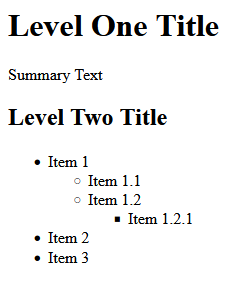
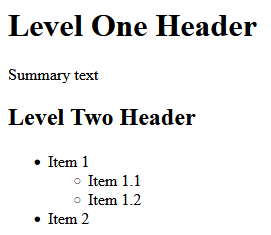
More edits for first blog article; add font section to second article

diff --git a/src/blog/personal-website-part-1.md b/src/blog/personal-website-part-1.md
@@ -64,14 +64,15 @@ I already have experience using GitLab for Agile-style project management, but
 I'd rather not host a server or pay for a project of this size.
 
 GitHub is similar enough to GitLab, and most of my personal code is there already. Their free repos and
-issue tracking are more than enough to track the code changes and other work. I
+issue tracking are more than sufficient for the job. I
 don't mind making the code public (that's kind of the point of a dev portfolio),
 and in this particular case I don't really care if GitHub uses my code to train
 Copilot. For more sensitive code bases, I might instead use a self-hosted GitLab
 server or a paid option.
 
 For any coding project you plan to work on more than once, I recommend using
-some kind of Git workflow to track and apply changes. In theory you could just do
+some kind of [Git workflow](https://www.atlassian.com/git/tutorials/comparing-workflows)
+to help with managing your changes. In theory you could just do
 everything on a single branch, but having a separate issue for each change and
 having a branch for each issue makes it much easier to track progress over time.
 Having a searchable and taggable list of issues also makes prioritization easier
@@ -81,7 +82,7 @@ when planning what to work on next.
 
 Since I'm already using GitHub, I might as well use their hosting service called [GitHub Pages](https://docs.github.com/en/pages). It's free, it doesn't have ads, and it supports using a custom domain.
 
-The earlier version of the site used an AWS S3 bucket. That worked fine and was fairly
+The previous version of the site used an AWS S3 bucket. That worked fine and was fairly
 inexpensive, but if I can host the site for free, that's even better. Especially
 if I (hopefully) end up getting more traffic later on.
 
@@ -118,7 +119,7 @@ This creates `_config.ts` for Lume and `deno.json` for Deno.
 
 Next, I'll install the optional
 [Lume CLI](https://lume.land/docs/overview/command-line/) so that Lume commands
-are a bit shorter to type. This will let us run `lume` instead of `deno task lume`:
+are a bit shorter to type. This way we can just run `lume` instead of `deno task lume`:
 
 ```shell
 deno install --allow-run --allow-env --allow-read --name lume --force --reload --global https://deno.land/x/lume_cli/mod.ts
@@ -141,13 +142,13 @@ There are three things we care about for now:
 
 - Adding a `src` directory so that Lume only looks for source files there.
   We don't want to include the outer README.md or other top-level files
-  in the build, since those have other purposes within the repo.
+  in the build, since those have other purposes and shouldn't show up in the final site.
 - Having the server open a browser by default when we run `lume -s`.
 - Disabling the
   [debug bar](https://lume.land/docs/configuration/config-file/#debugbar) from
   the site.
 
-This gives us the following:
+To do this, we use the following for `_config.ts`:
 
 ```typescript
 import lume from "lume/mod.ts";
@@ -165,6 +166,8 @@ export default site;
 
 The other defaults are fine for now.
 
+If the `.ts` extension makes you nervous, don't worry. [TypeScript](https://www.typescriptlang.org/) is just a superset of JavaScript, and we don't need any TypeScript-specific features here.
+
 ## Creating the Project Structure
 
 ### Adding a Page
@@ -172,11 +175,11 @@ The other defaults are fine for now.
 Now that Lume is configured, we can start adding content and defining a basic
 folder structure.
 
-First, we need to create a `src` folder where everything will live.
+First, we need to create the `src` folder where everything will live.
 
 Within it, Lume will automatically discover `.md` files and generate HTML using
 them. To start, let's create a simple `src/index.md` file, which will be used to generate
-the main `index.html` (the landing page) for the site:
+the main `index.html` file (the landing page) for the site:
 
 ```md
 # Scott Fredericks
@@ -203,43 +206,35 @@ browser:
 
 If you're not familiar with [Markdown](https://www.markdownguide.org/), it's
 just a simple markup language that's well-liked by developers. It's easy to edit
-from a text editor, and it's easy to reason about how the rendered version will look
-based on the text version. For example, this Markdown:
+from a text editor, and it's easy to reason about how the rendered version (what you see in the browser)
+will look based on the text version. For example, this Markdown:
 
 ```md
 # Level One Header
 
-Summary Text
+Summary text
 
 ## Level Two Header
 
 - Item 1
   - Item 1.1
   - Item 1.2
-    - Item 1.2.1
 - Item 2
-- Item 3
 ```
 
 produces this HTML:
 
 ```html
 <h1>Level One Header</h1>
-<p>Summary Text</p>
+<p>Summary text</p>
 <h2>Level Two Header</h2>
 <ul>
-  <li>
-    Item 1 <ul>
+  <li> Item 1 <ul>
       <li>Item 1.1</li>
-      <li>
-        Item 1.2 <ul>
-          <li>Item 1.2.1</li>
-        </ul>
-      </li>
+      <li>Item 1.2</li>
     </ul>
   </li>
   <li>Item 2</li>
-  <li>Item 3</li>
 </ul>
 ```
 
@@ -249,7 +244,7 @@ and looks like this in the browser:
 
 Great, our offline website works! However, it's pretty ugly. We should add some CSS to make it less ugly.
 
-Before we can do that, we need to understand how Lume handles layouts,
+Before we can do that though, we need to understand how Lume handles layouts,
 templates, and other resources. This is because in Lume, CSS files are handled like any other resource.
 
 ### Applying a Layout
@@ -275,7 +270,7 @@ and `birthYear`:
 <p>Hello, John. Your age is 21.</p>
 ```
 
-Here, anything within the double curly braces `{{` and `}}` is treated as
+Here, anything within the double curly braces is treated as
 JavaScript code and converted to a string literal, which gets output as raw HTML. Note that the template doesn't "know" anything about the output format, so you can use expressions to generate HTML tags, comments, or any other kind of HTML code. You just need to be mindful about how you use escape characters between formats.
 
 This makes it easy to re-use parts of a file that stay the same (like the
@@ -311,7 +306,7 @@ will be `.html`.
 
 Within our template, we use the variables `title` and `content`. `title` is just
 a regular variable that we will define within the `index.md` file. `content` is
-a built-in variable that stores the rendered string value obtained by converting the source file
+a built-in variable that contains the rendered string value obtained by converting the source file
 (Markdown) to the template file type (HTML).
 
 Next, to have our `index.md` file use this layout, we can specify the built-in
@@ -336,10 +331,9 @@ title defined at the top of `index.md`:
 ### Default Data
 
 Lume also has a way to define directory-level default variable values, so that
-we don't need to include the `layout` line for every file. This way, you don't
-risk forgetting to update the `layout` line everywhere if you rename the layout
-file. We can do this by creating a file named `_data.yml` in the directory that
-we want to apply the defaults in. Let's create `src/_data.yml`:
+we don't need to include the `layout` line for every file. We can do this by
+creating a file named `_data.yml` in the directory that
+we want to apply the defaults to. Let's create `src/_data.yml`:
 
 ```yml
 layout: main.html.vto
@@ -409,7 +403,7 @@ Note that when we apply styling, we want to target the HTML elements in the
 final output (in the `_site` folder), rather than the contents of the source
 Markdown files. Our CSS code only "knows about" the rendered HTML, not Markdown or any other Lume-specific features.
 
-So, for example, to target all level 1 headers in CSS, you would use `h1`, not `#`:
+So, for example, to target all level 1 headers in CSS, you would use `h1`, not `#`. So your CSS would look like this:
 
 ```css
 h1 {
@@ -417,7 +411,7 @@ h1 {
 }
 ```
 
-and not something like:
+and not this:
 
 ```css
 # {
@@ -426,7 +420,8 @@ and not something like:
 ```
 
 If you get confused, just remember that the final website consists of everything that gets output to the `_site`
-folder, and nothing else.
+folder, and nothing else. You can inspect the contents of these files to see whether things are working the way
+you expect them to.
 
 #### Adding JavaScript
 
@@ -464,6 +459,8 @@ Then, we can add images within `md` files using the following syntax:
 ```
 
 This will insert an `<img>` tag into the output HTML using a relative URL.
+You can also use an absolute URL if you're referencing an external image from
+another site.
 
 Here, we expect an image to exist at `src/img/filename.png`. Note the `/` at the
 beginning of the file path, which is necessary to reference the website root
@@ -498,10 +495,10 @@ url: /blog/
 ```
 
 This will be rendered to `<domain name>/blog/index.html`, where `<domain name>` is whatever our public site URL is. By adding `url: /blog/`, we
-can properly utilize pretty URLs so that the resulting URL is just
+can properly utilize pretty URLs so that the user-facing URL is just
 `<domain name>/blog/`.
 
-To designate files as blog articles, we'll add a `blog_article` tag to every article
+To designate which files are blog articles, we'll add a `blog_article` tag to every article
 `.md` file that we want to appear in the list. We'll also add a `date` variable
 that we can list at the top of the article and use for sorting. Here's the top
 of an article `.md` file:
@@ -592,7 +589,7 @@ url: /blog/
 
 First, we get the list of articles and sort them in descending order based on
 date. We keep track of the year for each article in the `currentYear` variable
-and update it each time we find a new year.
+and update it each time we find a new year:
 
 ```html
 {{ set articles = search.pages("blog_article", "date=desc") }}
@@ -660,13 +657,13 @@ layout: main.html.vto
 {{ content }}
 ```
 
-To apply this to all blog articles, we create `src/blog/_data.yml`:
+To make this the default layout for all blog articles, we create `src/blog/_data.yml`:
 
 ```yml
 layout: blog_article.html.vto
 ```
 
-Looking at the article in the browser:
+Now, looking at the article in the browser, we get this:
 
 ![Article Date](/img/blog/personal-website-part-1/article_date.png)
 

diff --git a/src/blog/_personal-website-part-2.md b/src/blog/_personal-website-part-2.md
@@ -61,3 +61,7 @@ TODO
 ## Adding a Dynamic Background
 
 TODO
+
+## Adding a Font
+
+TODO
